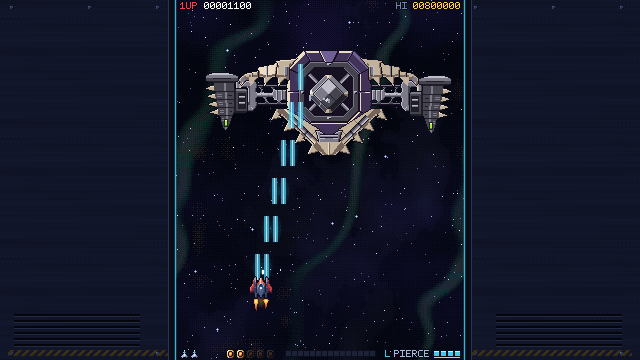
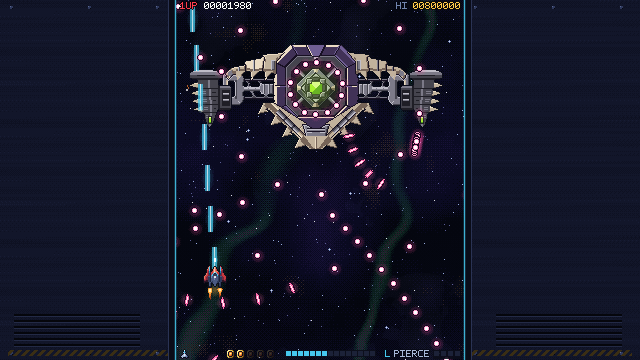
[STARFALL-RELOAD] Show denser bullet patterns in the README screenshots

diff --git a/games/starfall-reload/docs/screenshots/README.md b/games/starfall-reload/docs/screenshots/README.md
@@ -1,10 +1,10 @@
 # Screenshots
 
-Native 640×360 frames copied from the WebGPU canvas of the development build in a Chromium-based browser, 17 November 2026. The frames show real gameplay flown by the demo autopilot, started with the development-only `?area=…&at=…&power=…&weapon=…` parameters to reach each boss. The CRT overlay is a CSS layer and is not part of the canvas pixels.
+Native 640×360 frames copied from the WebGPU canvas of the development build in a Chromium-based browser, 23 November 2026. The frames show real gameplay flown by the demo autopilot, started with the development-only `?area=…&at=…&power=…&weapon=…` parameters to reach each boss. Boss frames were picked from the densest bullet patterns of each fight. The CRT overlay is a CSS layer and is not part of the canvas pixels.
 
-| File                             | Content                                 |
-| -------------------------------- | --------------------------------------- |
-| `attract-title.png`              | Attract screen                          |
-| `cirrus-line-halberd.png`        | Area 1 boss, VULCAN spread at max power |
-| `neon-grid-cantor.png`           | Area 2 boss, armoured phase, VULCAN     |
-| `aurora-orbit-seraph-engine.png` | Final boss, LANCE pierce at max power   |
+| File                             | Content                                               |
+| -------------------------------- | ----------------------------------------------------- |
+| `attract-title.png`              | Attract screen                                        |
+| `cirrus-line-halberd.png`        | Area 1 boss, desperation spirals, VULCAN spread       |
+| `neon-grid-cantor.png`           | Area 2 boss, overdrive bullet curtains, VULCAN spread |
+| `aurora-orbit-seraph-engine.png` | Final boss, open core and blade sweeps, LANCE pierce  |
